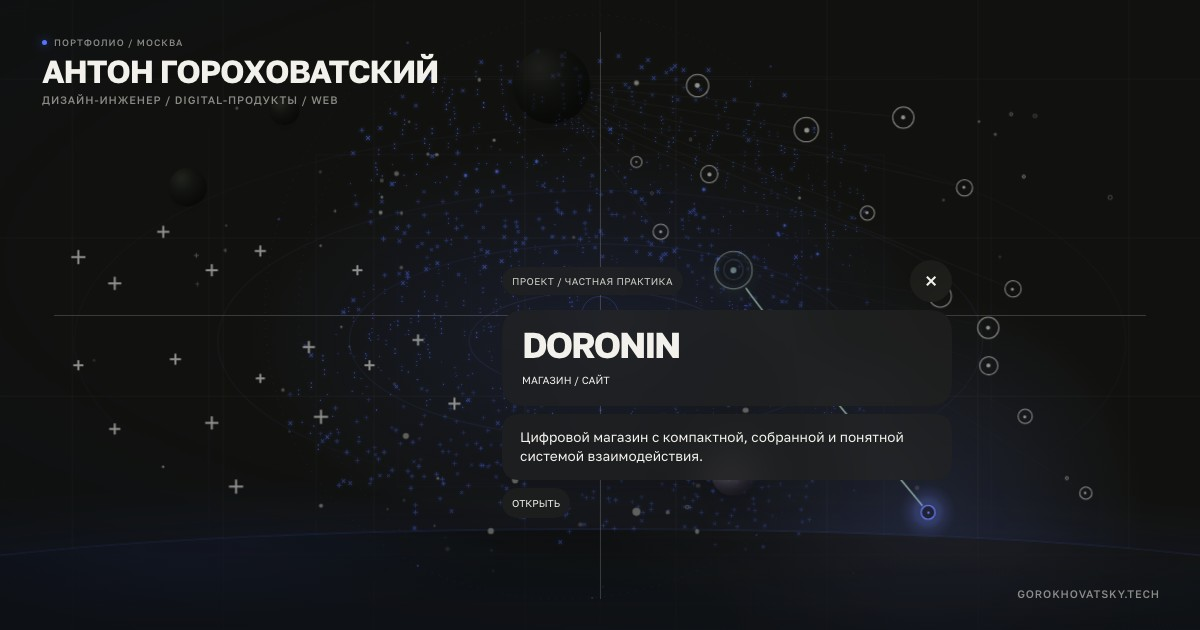
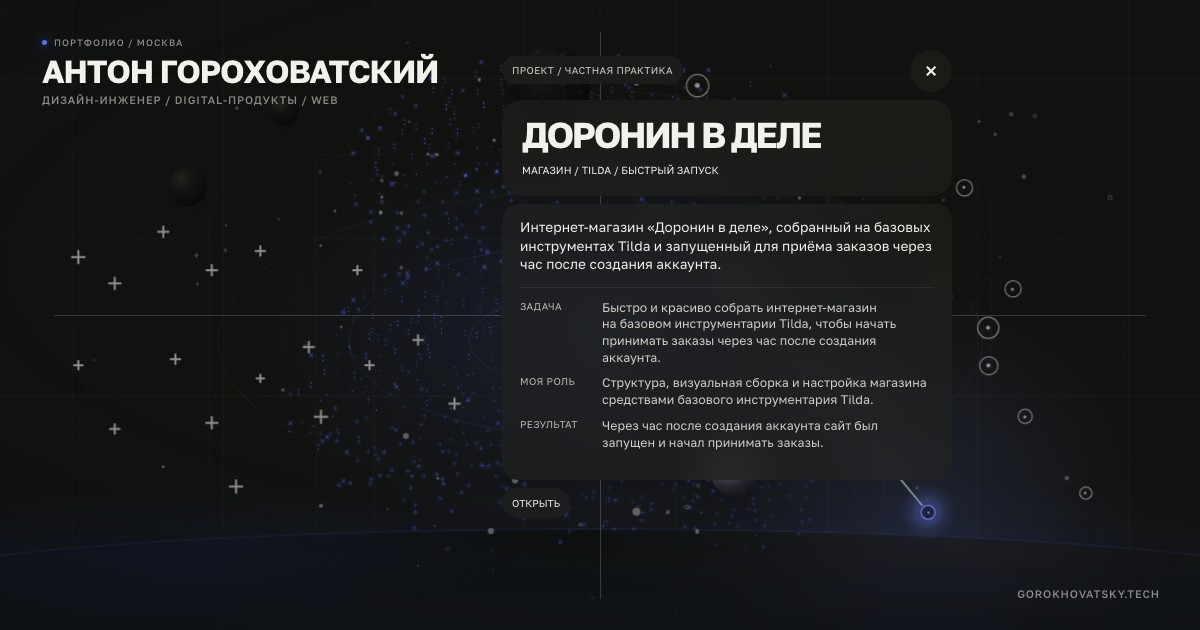
Add evidence for 11 111 and Доронин в деле

diff --git a/work/doronin/index.html b/work/doronin/index.html
@@ -3,20 +3,20 @@
   <head>
     <meta charset="utf-8">
     <meta name="viewport" content="width=device-width, initial-scale=1">
-    <title>DORONIN — цифровой магазин | Антон Гороховатский</title>
+    <title>«Доронин в деле» — интернет-магазин на Tilda | Антон Гороховатский</title>
     <meta
       name="description"
-      content="Цифровой магазин DORONIN: коллекция, мерч и компактная система взаимодействия, собранная Антоном Гороховатским как цельный web-продукт."
+      content="Интернет-магазин «Доронин в деле», собранный на базовых инструментах Tilda и запущенный для приёма заказов через час после создания аккаунта."
     >
     <meta name="robots" content="index, follow, max-image-preview:large">
     <link rel="canonical" href="https://gorokhovatsky.tech/work/doronin/">
     <meta property="og:locale" content="ru_RU">
     <meta property="og:type" content="website">
     <meta property="og:site_name" content="Антон Гороховатский">
-    <meta property="og:title" content="DORONIN — цифровой магазин">
+    <meta property="og:title" content="«Доронин в деле» — интернет-магазин на Tilda">
     <meta
       property="og:description"
-      content="Коллекция, мерч и компактная система взаимодействия в цельном digital-продукте."
+      content="Быстрый запуск интернет-магазина на базовых инструментах Tilda — от нового аккаунта до приёма заказов за один час."
     >
     <meta property="og:url" content="https://gorokhovatsky.tech/work/doronin/">
     <meta property="og:image" content="https://gorokhovatsky.tech/assets/share/doronin.jpg">
@@ -24,18 +24,18 @@
     <meta property="og:image:height" content="630">
     <meta
       property="og:image:alt"
-      content="Пространственная карта портфолио Антона Гороховатского с открытой карточкой цифрового магазина DORONIN."
+      content="Пространственная карта портфолио Антона Гороховатского с открытой карточкой интернет-магазина «Доронин в деле»."
     >
     <meta name="twitter:card" content="summary_large_image">
-    <meta name="twitter:title" content="DORONIN — цифровой магазин">
+    <meta name="twitter:title" content="«Доронин в деле» — интернет-магазин на Tilda">
     <meta
       name="twitter:description"
-      content="Коллекция, мерч и компактная система взаимодействия."
+      content="Интернет-магазин на Tilda, запущенный для приёма заказов за один час."
     >
     <meta name="twitter:image" content="https://gorokhovatsky.tech/assets/share/doronin.jpg">
     <meta
       name="twitter:image:alt"
-      content="Карта портфолио с открытой карточкой цифрового магазина DORONIN."
+      content="Карта портфолио с открытой карточкой интернет-магазина «Доронин в деле»."
     >
     <meta name="theme-color" content="#11120f">
     <meta http-equiv="refresh" content="0; url=../../?point=doronin#map">
@@ -43,7 +43,7 @@
       {
         "@context": "https://schema.org",
         "@type": "CreativeWork",
-        "name": "DORONIN — цифровой магазин",
+        "name": "«Доронин в деле» — интернет-магазин на Tilda",
         "url": "https://gorokhovatsky.tech/work/doronin/",
         "image": "https://gorokhovatsky.tech/assets/share/doronin.jpg",
         "creator": {
@@ -74,7 +74,7 @@
   </head>
   <body>
     <main>
-      <h1>DORONIN — цифровой магазин</h1>
+      <h1>«Доронин в деле» — интернет-магазин на Tilda</h1>
       <p>Открываем проект в интерактивной карте портфолио.</p>
       <a href="../../?point=doronin#map">Открыть проект</a>
     </main>

diff --git a/work/eleven/index.html b/work/eleven/index.html
@@ -3,20 +3,20 @@
   <head>
     <meta charset="utf-8">
     <meta name="viewport" content="width=device-width, initial-scale=1">
-    <title>11 111 — брендовый web-проект | Антон Гороховатский</title>
+    <title>11 111 — сайт ультратриатлона Виктора Доронина | Антон Гороховатский</title>
     <meta
       name="description"
-      content="Сайт проекта «11 111»: история, цель и масштаб бренда, собранные в самостоятельную цифровую форму с узнаваемым характером."
+      content="Сайт первого в мире 31-дневного ультратриатлона Виктора Доронина: прошлый опыт, подготовка к декабрю 2026 года и партнёрский маршрут."
     >
     <meta name="robots" content="index, follow, max-image-preview:large">
     <link rel="canonical" href="https://gorokhovatsky.tech/work/eleven/">
     <meta property="og:locale" content="ru_RU">
     <meta property="og:type" content="website">
     <meta property="og:site_name" content="Антон Гороховатский">
-    <meta property="og:title" content="11 111 — брендовый web-проект">
+    <meta property="og:title" content="11 111 — сайт ультратриатлона Виктора Доронина">
     <meta
       property="og:description"
-      content="История, цель и масштаб бренда в самостоятельной цифровой форме с узнаваемым характером."
+      content="История Виктора, подготовка к 31-дневному ультратриатлону и маршрут для потенциальных партнёров."
     >
     <meta property="og:url" content="https://gorokhovatsky.tech/work/eleven/">
     <meta property="og:image" content="https://gorokhovatsky.tech/assets/share/eleven.jpg">
@@ -27,10 +27,10 @@
       content="Пространственная карта портфолио Антона Гороховатского с открытой карточкой проекта «11 111»."
     >
     <meta name="twitter:card" content="summary_large_image">
-    <meta name="twitter:title" content="11 111 — брендовый web-проект">
+    <meta name="twitter:title" content="11 111 — сайт ультратриатлона Виктора Доронина">
     <meta
       name="twitter:description"
-      content="История, цель и масштаб бренда в самостоятельной цифровой форме."
+      content="История Виктора, подготовка к 31-дневному ультратриатлону и партнёрский маршрут."
     >
     <meta name="twitter:image" content="https://gorokhovatsky.tech/assets/share/eleven.jpg">
     <meta
@@ -43,7 +43,7 @@
       {
         "@context": "https://schema.org",
         "@type": "CreativeWork",
-        "name": "11 111 — брендовый web-проект",
+        "name": "11 111 — сайт ультратриатлона Виктора Доронина",
         "url": "https://gorokhovatsky.tech/work/eleven/",
         "image": "https://gorokhovatsky.tech/assets/share/eleven.jpg",
         "creator": {
@@ -74,7 +74,7 @@
   </head>
   <body>
     <main>
-      <h1>11 111 — брендовый web-проект</h1>
+      <h1>11 111 — сайт ультратриатлона Виктора Доронина</h1>
       <p>Открываем проект в интерактивной карте портфолио.</p>
       <a href="../../?point=eleven#map">Открыть проект</a>
     </main>

diff --git a/js/map-data.js b/js/map-data.js
@@ -356,8 +356,13 @@ const mapItems = [
     label: "11 111",
     mapLabel: "Сайт проекта «11 111» Виктора Доронина",
     title: "11 111",
-    meta: "БРЕНД / САЙТ",
+    meta: "ИСТОРИЯ / ПАРТНЁРЫ / САЙТ",
     description: "Сайт первого в мире 31-дневного ультратриатлона Виктора Доронина. Привлекаем болельщиков и партнёров.",
+    evidence: {
+      task: "Рассказать о Викторе, его прошлом опыте и подготовке к первому в мире 31-дневному ультратриатлону в декабре 2026 года — и привлечь к проекту партнёров.",
+      role: "Концепция, структура, дизайн и реализация сайта: собрать историю ярко, качественно и с любовью к деталям.",
+      result: "Запущен сайт, который знакомит с опытом и подготовкой Виктора, объясняет масштаб будущего приключения и ведёт потенциальных партнёров к обсуждению участия.",
+    },
     href: "https://11111.life/",
     kindLabel: "ПРОЕКТ / ЧАСТНАЯ ПРАКТИКА",
     previewVideo: "assets/reels/11111.mp4?v=5bc77fdb52a4",
@@ -390,11 +395,16 @@ const mapItems = [
     id: "doronin",
     parent: "private-practice",
     kind: "project",
-    label: "DORONIN",
-    mapLabel: "Интернет-магазин мерча Виктора Доронина",
-    title: "DORONIN",
-    meta: "МАГАЗИН / САЙТ",
-    description: "Цифровой магазин с компактной, собранной и понятной системой взаимодействия.",
+    label: "ДОРОНИН В ДЕЛЕ",
+    mapLabel: "Интернет-магазин «Доронин в деле»",
+    title: "ДОРОНИН В ДЕЛЕ",
+    meta: "МАГАЗИН / TILDA / БЫСТРЫЙ ЗАПУСК",
+    description: "Интернет-магазин «Доронин в деле», собранный на базовых инструментах Tilda и запущенный для приёма заказов через час после создания аккаунта.",
+    evidence: {
+      task: "Быстро и красиво собрать интернет-магазин на базовом инструментарии Tilda, чтобы начать принимать заказы через час после создания аккаунта.",
+      role: "Структура, визуальная сборка и настройка магазина средствами базового инструментария Tilda.",
+      result: "Через час после создания аккаунта сайт был запущен и начал принимать заказы.",
+    },
     href: "https://doronin.store/",
     kindLabel: "ПРОЕКТ / ЧАСТНАЯ ПРАКТИКА",
     previewVideo: "assets/reels/doronin.mp4?v=d7fb14430c80",

diff --git a/index.html b/index.html
@@ -128,7 +128,7 @@
           "./js/preferences.js": "./js/preferences.js?v=77f862a63d22",
           "./js/analytics.js": "./js/analytics.js?v=843d35ceb18d",
           "./js/signal-field.js": "./js/signal-field.js?v=50bb6509089d",
-          "./js/map-data.js": "./js/map-data.js?v=5442061b1286",
+          "./js/map-data.js": "./js/map-data.js?v=8d87ce8679a1",
           "./js/map-engine.js": "./js/map-engine.js?v=495caef84ae0",
           "./js/panels.js": "./js/panels.js?v=e94206f02c59",
           "./js/favicon.js": "./js/favicon.js?v=515506b106d3"
@@ -140,7 +140,7 @@
     <script type="module" src="js/preferences.js?v=77f862a63d22"></script>
     <script type="module" src="js/analytics.js?v=843d35ceb18d"></script>
     <script type="module" src="js/signal-field.js?v=50bb6509089d"></script>
-    <script type="module" src="js/map-data.js?v=5442061b1286"></script>
+    <script type="module" src="js/map-data.js?v=8d87ce8679a1"></script>
     <script type="module" src="js/map-engine.js?v=495caef84ae0"></script>
     <script type="module" src="js/panels.js?v=e94206f02c59"></script>
     <script type="module" src="js/favicon.js?v=515506b106d3"></script>
@@ -917,7 +917,7 @@
           >
             <span class="work-row__number">06</span>
             <span class="work-row__title">Сайт проекта «11 111» Виктора Доронина</span>
-            <span class="work-row__scope">БРЕНД / САЙТ</span>
+            <span class="work-row__scope">ИСТОРИЯ / ПАРТНЁРЫ / САЙТ</span>
             <span class="work-row__domain">11111.LIFE</span>
           </a>
 
@@ -944,8 +944,8 @@
             rel="noreferrer"
           >
             <span class="work-row__number">08</span>
-            <span class="work-row__title">Интернет-магазин мерча Виктора Доронина</span>
-            <span class="work-row__scope">МАГАЗИН / САЙТ</span>
+            <span class="work-row__title">Интернет-магазин «Доронин в&nbsp;деле»</span>
+            <span class="work-row__scope">TILDA / МАГАЗИН / ЗАПУСК ЗА&nbsp;ЧАС</span>
             <span class="work-row__domain">DORONIN.STORE</span>
           </a>
         </div>

diff --git a/README.md b/README.md
@@ -39,7 +39,7 @@ route.
 - The map is the full-screen default state; the portfolio does not continue as
   a conventional scrolling page.
 - Node selection opens a compact readout assembled around the selected point as
-  the composition's anchor object. Nine anchor points add the evidence fields
+  the composition's anchor object. Eleven anchor points add the evidence fields
   `ЗАДАЧА / МОЯ РОЛЬ / РЕЗУЛЬТАТ`; numerical claims are included only where
   they are supported by the source résumé.
 - `СЕАНС НАБЛЮДЕНИЯ` is an optional eight-stop, roughly sixty-second route
@@ -278,7 +278,7 @@ computed styles, runtime state coverage, and matched before/after renders.
 - [Dusty Dumbbells Camp](https://camp.dustydumbbells.com/)
 - [11 111](https://11111.life/)
 - [KS Fish](https://ks.fish/)
-- [Doronin](https://doronin.store/)
+- [Доронин в деле](https://doronin.store/)
 
 The site uses static HTML, CSS, and JavaScript and publishes from the
 repository's `gh-pages` branch.

diff --git a/AGENTS.md b/AGENTS.md
@@ -194,7 +194,7 @@
 - Не показывать пустые превью, декоративные заглушки и ссылки без осмысленного
   назначения.
 - Сохранить мастер-набор из 13 шоурилов: Shirokostup, Tarski, Herman,
-  Dusty Merch, Dusty Camp, 11 111, Doronin, KS Fish, Наркомфин, Garage Site,
+  Dusty Merch, Dusty Camp, 11 111, «Доронин в деле», KS Fish, Наркомфин, Garage Site,
   Collection / Open Storage, Courses и Webzine.
 - Все 13 шоурилов записываются заново в нативной геометрии их receiver и с
   квадратным пикселем. Обычно проход занимает 7–8 секунд; более длинное
